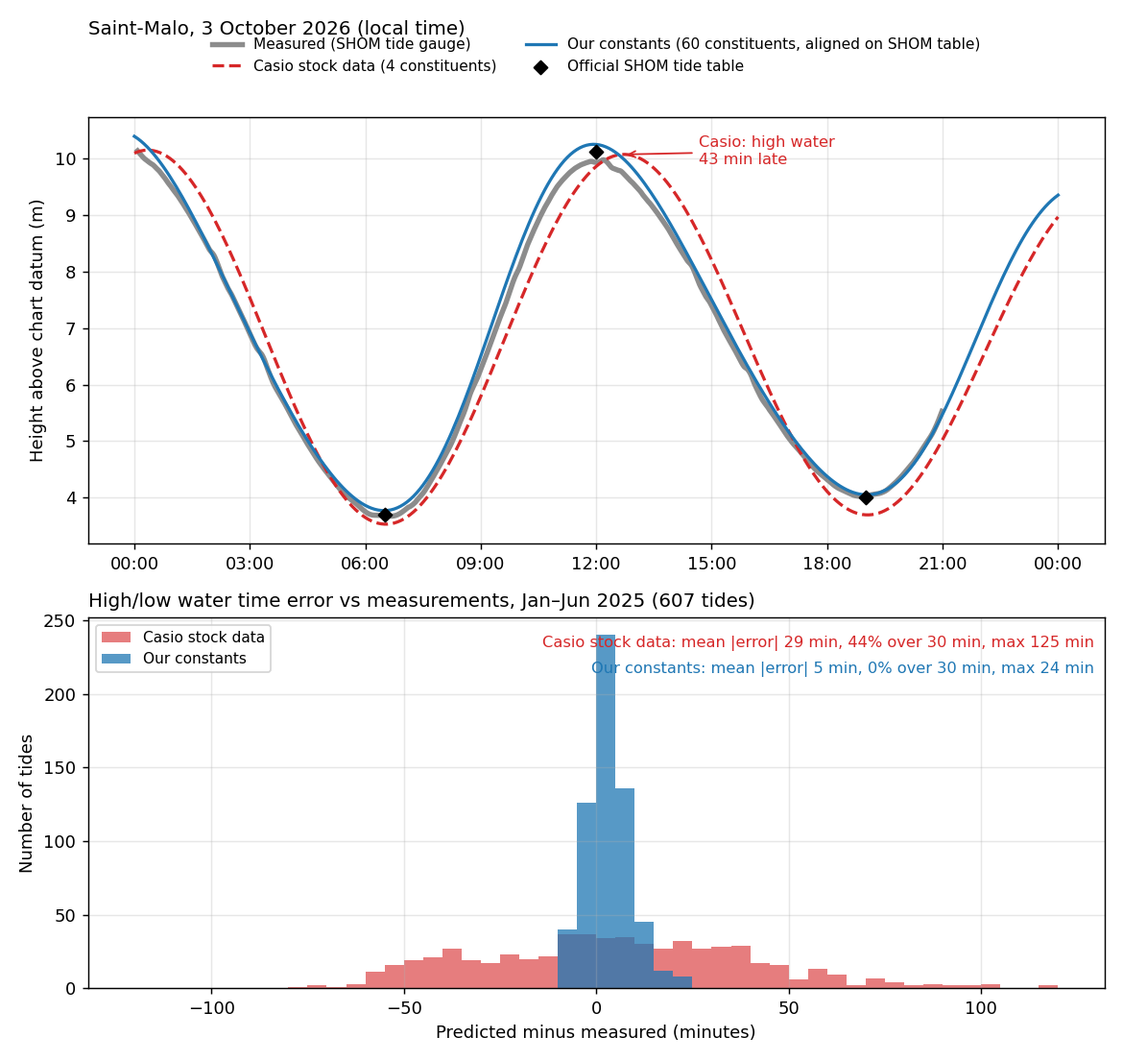
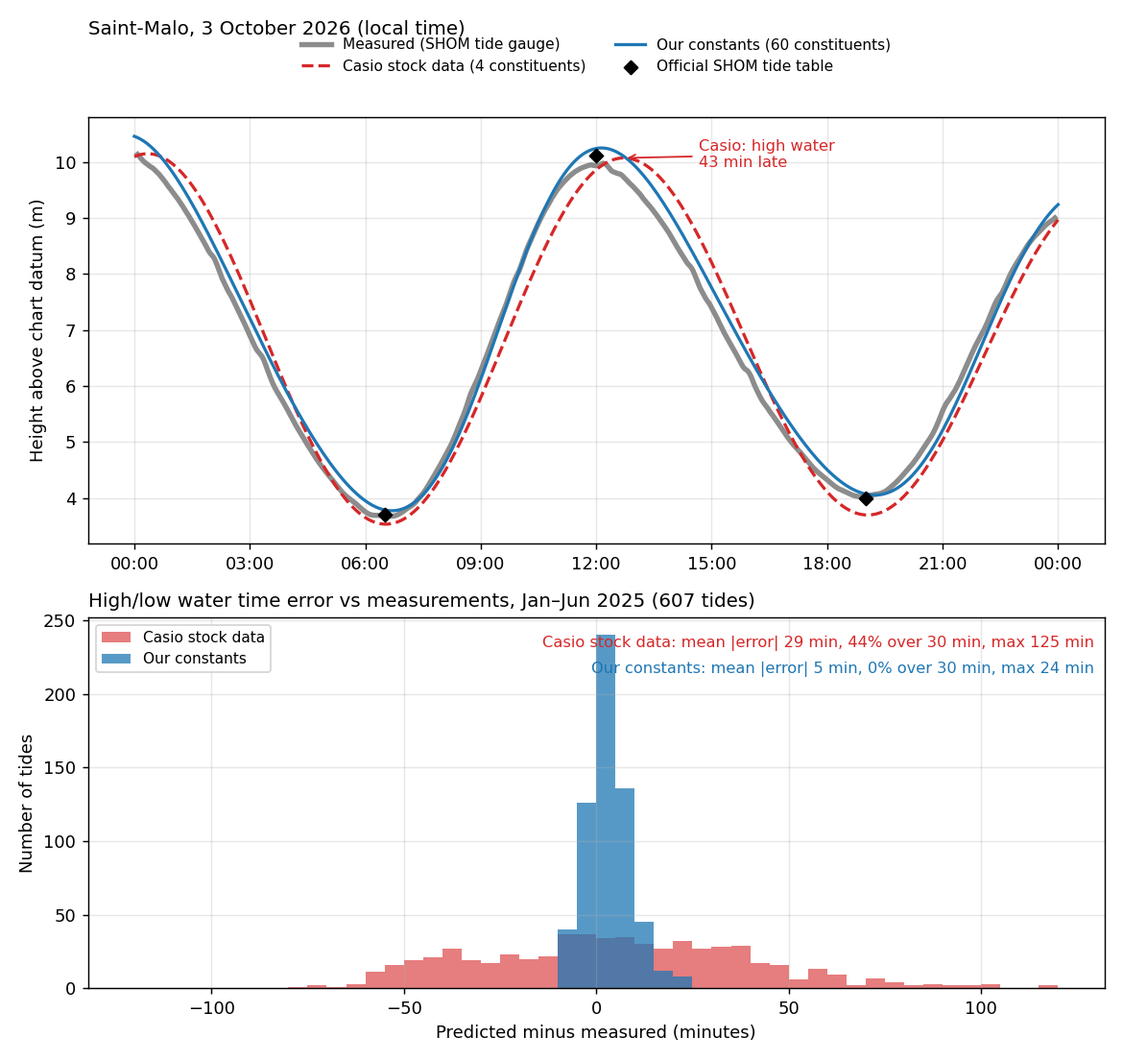
Calage sur l'annuaire officiel (PM/BM) avec validation, et correction des chiffres
- scripts/calage_extremes.py : recale les constantes sur les heures et hauteurs
  de PM/BM d'une table officielle (moindres carrés + rappel), avec validation
  sur une période mise de côté et bilan vives-eaux / mortes-eaux séparé
- README : section « Match your official tide table / Coller à son annuaire
  officiel », étape 7 de la démarche (erreur du décalage fixe calé sur 3 jours
  de mortes-eaux) et nouvelles hypothèses
- Chiffres corrigés : 3,4 min d'écart moyen face à l'annuaire sur des mois non
  utilisés (et non « à la minute »)
- Supprime aligne_shom.py et la version décalée de 12 min (sur-apprentissage)
- Images mises à jour

diff --git a/scripts/calage_extremes.py b/scripts/calage_extremes.py
@@ -1,0 +1,114 @@
+"""Recale des constantes harmoniques sur des heures et hauteurs de pleines/basses mers officielles
+(annuaire, table de marée : SHOM, NOAA, UKHO, CHS...), avec validation sur une période mise de côté.
+
+Principe : à l'heure exacte d'une PM ou BM officielle, la courbe prédite doit être « à plat » (dérivée nulle)
+et à la hauteur officielle. La courbe étant une somme d'ondes, ces deux conditions sont linéaires en
+a_j = A_j cos g_j et b_j = A_j sin g_j : on résout un problème de moindres carrés. Une pénalité (lambda)
+retient la solution près des constantes de départ pour ne pas « sur-apprendre » les points de calage.
+
+Entrées :
+  constantes.json : constantes de départ (sortie de analyse.py)
+  extremes.csv    : colonnes t (date et heure), type (HW ou LW), h (hauteur en m, même zéro que les constantes)
+Usage :
+  python scripts/calage_extremes.py constantes.json extremes.csv sortie.json LATITUDE FUSEAU FIN_CALAGE
+  ex. : ... data/saint_malo_60.json annuaire.csv data/saint_malo_cale.json 48.64 Europe/Paris 2026-08-01
+  FUSEAU : fuseau des heures du fichier (« UTC » si elles sont déjà en UTC)
+  FIN_CALAGE : les marées avant cette date servent au calage, celles après à la validation"""
+import sys, json, copy, warnings
+import numpy as np, pandas as pd, utide
+warnings.filterwarnings('ignore')
+
+SRC, EXT, OUT = sys.argv[1], sys.argv[2], sys.argv[3]
+LAT = float(sys.argv[4]); TZ = sys.argv[5]; SPLIT = pd.Timestamp(sys.argv[6])
+LAMBDAS = [0.3, 1, 3, 10, 30]          # forces de rappel testées ; la meilleure est choisie sur la validation
+
+# --- constantes de départ, dans une structure utide (corrections nodales comprises) ---
+d = json.load(open(SRC))
+tt = pd.date_range('2020-01-01', periods=24 * 400, freq='h')
+coef = utide.solve(tt, np.random.default_rng(0).normal(size=len(tt)), lat=LAT, constit=d['name'],
+                   method='ols', conf_int='none', trend=False, verbose=False)
+coef['A'] = np.array([dict(zip(d['name'], d['A']))[n] for n in coef.name])
+coef['g'] = np.array([dict(zip(d['name'], d['g']))[n] for n in coef.name])
+coef['mean'] = d['Z0']
+N = len(coef.name)
+
+def basis(times):
+    """Matrice (len(times), 2N+1) : h(t) = B @ x avec x = [a_1..a_N, b_1..b_N, Z0]."""
+    B = np.zeros((len(times), 2 * N + 1)); B[:, -1] = 1
+    for j in range(N):
+        for k, g in ((j, 0.0), (N + j, 90.0)):
+            c = copy.deepcopy(coef)
+            for key in ('name',): c[key] = np.array([coef.name[j]])
+            c['A'] = np.array([1.0]); c['g'] = np.array([g]); c['mean'] = 0.0
+            for key in ('frq', 'lind'): c['aux'][key] = np.array([coef['aux'][key][j]])
+            B[:, k] = utide.reconstruct(times, c, verbose=False).h
+    return B
+
+def x_of(c):
+    g = np.radians(c['g']); return np.concatenate([c['A'] * np.cos(g), c['A'] * np.sin(g), [c['mean']]])
+
+def coef_of(x):
+    c = copy.deepcopy(coef); a, b = x[:N], x[N:2 * N]
+    c['A'] = np.hypot(a, b); c['g'] = np.degrees(np.arctan2(b, a)) % 360; c['mean'] = x[-1]; return c
+
+# --- extrêmes officiels, convertis en UTC ---
+ex = pd.read_csv(EXT)
+t = pd.to_datetime(ex.t)
+t = t.dt.tz_localize(TZ, ambiguous='NaT', nonexistent='NaT') if TZ != 'UTC' else t.dt.tz_localize('UTC')
+ex['tu'] = t.dt.tz_convert('UTC').dt.tz_localize(None); ex = ex.dropna(subset=['tu']).reset_index(drop=True)
+train, valid = ex[ex.tu < SPLIT].reset_index(drop=True), ex[ex.tu >= SPLIT].reset_index(drop=True)
+print(f"{len(train)} PM/BM pour le calage, {len(valid)} pour la validation")
+
+# --- équations : dérivée nulle (convertie en minutes) et hauteur juste (en cm) à chaque extrême ---
+dt = pd.Timedelta(seconds=60)   # pas des différences finies : D1 en m/min, D2 en m/min²
+Bm, B0, Bp = basis(train.tu - dt), basis(train.tu), basis(train.tu + dt)
+x0 = x_of(coef)
+D1 = (Bp - Bm) / 2              # dérivée (m/min)
+D2 = Bp - 2 * B0 + Bm           # dérivée seconde (m/min²), pour convertir une pente en minutes
+curv = np.abs(D2 @ x0); curv[curv < 1e-5] = 1e-5
+rows_t = D1 / curv[:, None]                        # ≈ erreur d'heure en minutes
+rows_h = B0 * 100; rhs_h = train.h.values * 100    # erreur de hauteur en cm
+
+def fit(lam):
+    A = np.vstack([rows_t, rows_h, lam * 100 * np.eye(len(x0))])       # rappel exprimé en cm
+    b = np.concatenate([np.zeros(len(rows_t)), rhs_h, lam * 100 * x0])
+    return np.linalg.lstsq(A, b, rcond=None)[0]
+
+def evaluate(c, events):
+    """Heures/hauteurs prédites des PM/BM au voisinage de chaque extrême officiel (pas de 1 min)."""
+    res = []
+    for _, e in events.iterrows():
+        w = pd.date_range(e.tu - pd.Timedelta(minutes=120), e.tu + pd.Timedelta(minutes=120), freq='1min')
+        h = utide.reconstruct(w, c, verbose=False).h
+        i = int(np.argmax(h) if e.type == 'HW' else np.argmin(h))
+        if 0 < i < len(w) - 1:
+            res.append(((w[i] - e.tu).total_seconds() / 60, (h[i] - e.h) * 100, e.h))
+    return pd.DataFrame(res, columns=['dt_min', 'dh_cm', 'h'])
+
+def summary(r, label):
+    # vives-eaux : le tiers des PM les plus hautes et des BM les plus basses ; mortes-eaux : l'inverse
+    pm = r.h > r.h.median()
+    spring = (pm & (r.h > r[pm].h.quantile(.67))) | (~pm & (r.h < r[~pm].h.quantile(.33)))
+    neap = (pm & (r.h < r[pm].h.quantile(.33))) | (~pm & (r.h > r[~pm].h.quantile(.67)))
+    print(f"{label:24s} heure |moy| {r.dt_min.abs().mean():4.1f} min (max {r.dt_min.abs().max():3.0f}) | "
+          f"biais vives-eaux {r[spring].dt_min.mean():+5.1f} min, mortes-eaux {r[neap].dt_min.mean():+5.1f} min | "
+          f"hauteur |moy| {r.dh_cm.abs().mean():4.1f} cm")
+    return r.dt_min.abs().mean()
+
+print("\nValidation (marées non utilisées pour le calage) :")
+base = summary(evaluate(coef, valid), 'Constantes de départ')
+best = None
+for lam in LAMBDAS:
+    c = coef_of(fit(lam)); score = summary(evaluate(c, valid), f'Calé, lambda = {lam}')
+    if best is None or score < best[0]: best = (score, lam, c)
+score, lam, c = best
+print(f"\nRetenu : lambda = {lam}. Recalage final sur toutes les marées disponibles.")
+# recalage final avec toutes les données, même lambda
+train = ex; Bm, B0, Bp = basis(ex.tu - dt), basis(ex.tu), basis(ex.tu + dt)
+D1, D2 = (Bp - Bm) / 2, Bp - 2 * B0 + Bm
+curv = np.abs(D2 @ x0); curv[curv < 1e-5] = 1e-5
+rows_t, rows_h, rhs_h = D1 / curv[:, None], B0 * 100, ex.h.values * 100
+c = coef_of(fit(lam))
+json.dump({'Z0': float(c['mean']), 'name': list(c.name), 'A': [float(v) for v in c.A], 'g': [float(v) for v in c.g]},
+          open(OUT, 'w'), indent=1)
+print('Constantes recalées écrites dans', OUT)

diff --git a/scripts/figure_avant_apres.py b/scripts/figure_avant_apres.py
@@ -29,8 +29,8 @@ obs = pd.Series({pd.Timestamp(r['timestamp']): r['value'] for r in d}).sort_inde
 pc = utide.reconstruct(day, casio, verbose=False).h
 
 fig = plt.figure(figsize=(16, 9), dpi=110, facecolor='white')
-fig.text(.5, .94, "My G-Shock's tide times were up to 2 hours off. Now they're within a minute.",
-         ha='center', fontsize=25, weight='bold', color=INK)
+fig.text(.5, .94, "My G-Shock's tide times were up to 2 hours off. Now they're within a few minutes.",
+         ha='center', fontsize=22.5, weight='bold', color=INK)
 fig.text(.5, .895, 'Casio GBX-100 · Saint-Malo, France (12 m tidal range) · checked against the official SHOM tide gauge',
          ha='center', fontsize=13.5, color='#616161')
 
@@ -58,13 +58,13 @@ fig.text(.27, .12, '(607 tides, Jan–Jun 2025, vs tide-gauge measurements)', ha
 
 # --- APRÈS ---
 fig.text(.73, .82, 'AFTER', ha='center', fontsize=20, weight='bold', color=BLUE)
-fig.text(.73, .785, '60 components fitted on 7 years of tide-gauge data', ha='center', fontsize=13.5, color=INK)
+fig.text(.73, .785, '60 components, calibrated on the official tide table', ha='center', fontsize=13.5, color=INK)
 img = Image.open('docs/img/montre_maree.jpg')
 w, h = img.size; img = img.crop((int(w * .12), int(h * .30), int(w * .88), int(h * .80)))   # cadrage sur le cadran
 axi = fig.add_axes([.555, .25, .35, .52]); axi.imshow(img); axi.axis('off')
-fig.text(.73, .19, '≤ 1 min', ha='center', fontsize=40, weight='bold', color=BLUE)
-fig.text(.73, .15, 'vs the official tide table, on the watch (19:01 vs 19:00, 0:39 vs 00:40)', ha='center', fontsize=13, color=INK)
-fig.text(.73, .12, '(5 min average vs tide-gauge measurements, Jan–Jun 2025)', ha='center', fontsize=10.5, color='#757575')
+fig.text(.73, .19, '3.4 min', ha='center', fontsize=40, weight='bold', color=BLUE)
+fig.text(.73, .15, 'average error vs the official tide table · max 14 min', ha='center', fontsize=13, color=INK)
+fig.text(.73, .12, '(309 tides, Aug–Oct 2026, not used for calibration)', ha='center', fontsize=10.5, color='#757575')
 
 fig.add_artist(plt.Line2D([.5, .5], [.12, .82], color='#e0e0e0', lw=1.5))
 fig.patches.append(matplotlib.patches.Rectangle((0, 0), 1, .075, transform=fig.transFigure, color=INK, zorder=-1))

diff --git a/scripts/figure_ecart.py b/scripts/figure_ecart.py
@@ -26,7 +26,6 @@ casio = fit(train, list(CASIO))
 casio['A'] = np.array([CASIO[n][1] for n in casio.name])
 casio['g'] = np.array([(CASIO[n][0] - 360 * f) % 360 for n, f in zip(casio.name, casio.aux.frq)])
 casio['mean'] = 6.78
-shift = copy.deepcopy(ours); shift['g'] = (np.array(ours.g) - 360 * np.array(ours.aux.frq) * 12 / 60) % 360   # aligné annuaire
 pred = lambda c, tt: utide.reconstruct(tt, c, verbose=False).h
 
 def extrema(times, h):
@@ -47,7 +46,7 @@ loc = lambda x: x.tz_localize('UTC').tz_convert('Europe/Paris').tz_localize(None
 obs = shom(1, '2026-10-02T22:00:00Z', '2026-10-03T22:00:00Z').rolling(11, center=True).mean()
 ax1.plot(loc(obs.index), obs.values, color='0.55', lw=3, label='Measured (SHOM tide gauge)')
 ax1.plot(loc(day), pred(casio, day), color='#d62728', lw=1.8, ls='--', label='Casio stock data (4 constituents)')
-ax1.plot(loc(day), pred(shift, day), color='#1f77b4', lw=1.8, label='Our constants (60 constituents, aligned on SHOM table)')
+ax1.plot(loc(day), pred(ours, day), color='#1f77b4', lw=1.8, label='Our constants (60 constituents)')
 annuaire = [('06:30', 3.70), ('12:00', 10.11), ('19:00', 4.00)]
 ax1.scatter([pd.Timestamp(f'2026-10-03 {h}') for h, _ in annuaire], [v for _, v in annuaire], zorder=5,
             color='k', marker='D', s=30, label='Official SHOM tide table')

diff --git a/scripts/envoi_maree.py b/scripts/envoi_maree.py
@@ -9,7 +9,7 @@ ALL  = "26eb002d-b012-49a8-b1f8-394fb2032b0f"   # réponses / écritures de rég
 DRSP = "26eb0023-b012-49a8-b1f8-394fb2032b0f"   # contrôle des transferts « convoy »
 CONV = "26eb0024-b012-49a8-b1f8-394fb2032b0f"   # données des transferts
 
-BLOB_FILE = sys.argv[1] if len(sys.argv) > 1 else "data/saint_malo_3482_shom.bin"
+BLOB_FILE = sys.argv[1] if len(sys.argv) > 1 else "data/saint_malo_3482.bin"
 PORT_ID   = int(sys.argv[2]) if len(sys.argv) > 2 else 9999
 RAISONS = {1: "pile faible", 2: "température basse", 3: "mémoire non effacée", 4: "occupée", 7: "en préparation"}
 LOG = open("envoi_log.txt", "a")

diff --git a/README.fr.md b/README.fr.md
@@ -2,7 +2,7 @@
 
 *[English version](README.md)*
 
-Envoyer à une **Casio G-Shock GBX-100** (module 3482) des constantes de marée calculées à partir des **mesures officielles d'un marégraphe**, ici le SHOM pour Saint-Malo, envoyées comme un **port personnalisé** baptisé « ST-MALO SHOM », à la place des données approximatives de l'appli CASIO WATCHES. La montre affiche ensuite des marées exactes à la minute près, **hors connexion**, avec son écran d'origine (graphe, PM/BM, lune, soleil). Ni le firmware ni la montre ne sont modifiés. On peut créer son propre port, n'importe où et avec le nom de son choix ([comment](#créer-son-propre-port-nimporte-quel-lieu-nimporte-quel-nom)).
+Envoyer à une **Casio G-Shock GBX-100** (module 3482) des constantes de marée calculées à partir des **mesures officielles d'un marégraphe**, ici le SHOM pour Saint-Malo, envoyées comme un **port personnalisé** baptisé « ST-MALO SHOM », à la place des données approximatives de l'appli CASIO WATCHES. La montre affiche ensuite des marées justes à quelques minutes près, **hors connexion**, avec son écran d'origine (graphe, PM/BM, lune, soleil). Ni le firmware ni la montre ne sont modifiés. On peut créer son propre port, n'importe où et avec le nom de son choix ([comment](#créer-son-propre-port-nimporte-quel-lieu-nimporte-quel-nom)).
 
 <p align="center">
   <img src="docs/img/montre_maree.jpg" width="340" alt="GBX-100 en mode marée affichant ST-MALO SHOM : pleine mer 0:39 943 cm, basse mer 19:01 398 cm">
@@ -18,11 +18,11 @@ Envoyer à une **Casio G-Shock GBX-100** (module 3482) des constantes de marée 
 
 <p align="center"><em>Deux jours plus tard (5 octobre 2026), après la reconnexion de la montre au téléphone, les données sont toujours là. Basse mer à 9:09 (491 cm) et pleine mer à 15:08 (904 cm), contre 09:06 (4,90 m) et 15:10 (9,08 m) dans l'annuaire SHOM.</em></p>
 
-| Saint-Malo (face aux mesures du marégraphe, 2025) | Écart moyen sur l'heure des PM/BM | Écart max |
+| Saint-Malo, écart sur l'heure des PM/BM | Moyen | Max |
 |---|---|---|
-| Données Casio d'origine (4 ondes) | 29 min | 2 h 05 |
-| Nos constantes (60 ondes, mesures SHOM) | 5 min | 24 min |
-| Version alignée sur l'annuaire SHOM : montre face à l'annuaire, 3 octobre 2026 | ≤ 1 min | — |
+| Données Casio d'origine (4 ondes), face aux mesures du marégraphe (2025) | 29 min | 2 h 05 |
+| Nos constantes (60 ondes, calées sur les mesures), face aux mesures (2025) | 5 min | 24 min |
+| Nos constantes recalées sur l'annuaire officiel, face à l'annuaire (août-octobre 2026, 309 marées non utilisées pour le calage) | 3,4 min | 14 min |
 
 ## Pourquoi les données Casio d'origine ne sont pas exploitables (au moins à Saint-Malo)
 
@@ -65,6 +65,8 @@ Nous avons procédé par hypothèses successives, chacune vérifiée par une sou
 
 **6. Diagnostiquer les échecs.** Quand la montre s'est mise à refuser les transferts (« occupée »), une seconde capture de l'appli a montré la poignée de main complète qu'elle fait avant chaque transfert. Le script la reproduit désormais.
 
+**7. Coller à l'annuaire officiel, et tirer la leçon d'une erreur.** Notre premier essai décalait toutes les constantes de 12 minutes, calées sur **trois jours de mortes-eaux**. Ces jours-là, la montre tombait à la minute ; cinq jours plus tard, en vives-eaux, elle avait 13 à 21 minutes d'avance. L'écart entre l'annuaire et le modèle calé sur les mesures n'est pas constant : environ 13 min en mortes-eaux, presque 0 en vives-eaux. Un décalage fixe ne peut pas le corriger. Nous l'avons remplacé par un vrai calage sur 9,5 mois de PM/BM de l'annuaire, validé sur des mois jamais utilisés, avec vives-eaux et mortes-eaux présentées séparément (voir [Coller à son annuaire officiel](#coller-à-son-annuaire-officiel)).
+
 ### Hypothèses validées ou réfutées
 
 | Hypothèse | Résultat | Preuve |
@@ -78,7 +80,9 @@ Nous avons procédé par hypothèses successives, chacune vérifiée par une sou
 | Un client tiers peut écrire dans la montre sans appairage | ✅ Validée | Connexion et envoi réussis depuis un Mac |
 | La montre recharge les données à chaque envoi | ❌ Réfutée | Elle ne recharge que si le numéro de port change |
 | La montre accepte un transfert à tout moment | ❌ Réfutée | Elle refuse en mode marée, et sans la poignée de main de l'appli |
-| L'annuaire officiel colle exactement aux mesures | ❌ Réfutée (à Saint-Malo) | L'annuaire est ~12 min plus tôt que notre modèle ; la marée mesurée se situe entre les deux |
+| L'annuaire officiel colle exactement aux mesures | ❌ Réfutée (à Saint-Malo) | L'écart dépend de la marée : ~13 min en mortes-eaux, ~0 en vives-eaux |
+| Un décalage horaire fixe suffit pour coller à l'annuaire | ❌ Réfutée | Calé sur 3 jours de mortes-eaux, il mettait la montre 13 à 21 min en avance en vives-eaux |
+| Un calage sur une longue série de PM/BM officielles fonctionne | ✅ Validée | 3,4 min d'écart moyen sur des mois non utilisés, plus de biais en vives-eaux |
 
 Le détail du protocole est dans [docs/PROTOCOLE.md](docs/PROTOCOLE.md).
 
@@ -111,7 +115,7 @@ Nous avons utilisé le **SHOM** parce que la montre sert à Saint-Malo. La méth
 - les phases doivent être en **référence UTC/Greenwich** (et non en heure locale), et les amplitudes en **cm** ;
 - les noms d'ondes doivent être mis en correspondance avec l'ordre Casio (fait dans `constantes_casio.py`) ;
 - le zéro des hauteurs (zéro hydrographique local, ou niveau moyen) détermine les hauteurs affichées ;
-- pour coller à l'annuaire officiel local plutôt qu'aux mesures, un décalage peut être calé comme dans `aligne_shom.py`.
+- pour coller à l'annuaire officiel local plutôt qu'aux mesures, calez sur ses PM/BM (voir [Coller à son annuaire officiel](#coller-à-son-annuaire-officiel)), pas avec un décalage fixe.
 
 ## Utilisation
 
@@ -131,10 +135,10 @@ Toutes les commandes se lancent depuis la racine du dépôt.
 3. Lancez la commande, puis appuyez sur le bouton de connexion de la montre :
 
 ```bash
-python scripts/envoi_maree.py data/saint_malo_3482_shom.bin
+python scripts/envoi_maree.py data/saint_malo_3482.bin
 ```
 
-La montre doit afficher « ST-MALO SHOM » en mode marée. Utilisez `data/saint_malo_3482.bin` pour la version calée sur les mesures plutôt que sur l'annuaire. Le script met aussi la montre à l'heure de l'ordinateur.
+La montre doit afficher « ST-MALO SHOM » en mode marée. Ce bloc est calé sur les mesures du marégraphe. Pour coller plutôt à votre annuaire officiel, voir [Coller à son annuaire officiel](#coller-à-son-annuaire-officiel). Le script met aussi la montre à l'heure de l'ordinateur.
 
 Pour lire seulement les réglages de marée, sans rien écrire :
 
@@ -177,7 +181,6 @@ python scripts/telecharger_refmar.py 410 2019 2025 data/saint_malo_horaire.csv
 python scripts/analyse.py
 python scripts/constantes_casio.py
 python scripts/gen_blob.py
-python scripts/aligne_shom.py
 python scripts/previsions.py 2026-10-03
 ```
 
@@ -186,11 +189,32 @@ Les étapes :
 - `analyse.py` fait l'analyse harmonique et la compare au modèle Casio.
 - `constantes_casio.py` produit les constantes au format Casio. Il accepte le nom, la latitude et la longitude en arguments.
 - `gen_blob.py` produit le bloc de 1009 octets. Le nom affiché fait 18 caractères au maximum.
-- `aligne_shom.py` est optionnel : il applique le décalage vers l'annuaire et vérifie le résultat.
 - `previsions.py` affiche les PM/BM prévues pour comparer avec la montre.
+- `calage_extremes.py` recale les constantes sur des PM/BM officielles (voir [Coller à son annuaire officiel](#coller-à-son-annuaire-officiel)).
 - `figure_ecart.py` produit le graphique de comparaison Casio / mesures / nos constantes.
 
 Bonus : `parse_pklg.py` décode une capture Bluetooth PacketLogger (macOS/iOS) en liste d'opérations GATT.
+
+### Coller à son annuaire officiel
+
+Des constantes calées sur les **mesures** d'un marégraphe suivent l'eau réelle. Votre **annuaire officiel** (SHOM, NOAA, UKHO, CHS...) est calculé par l'organisme hydrographique avec son propre modèle, plus complet, et peut différer de quelques minutes, différemment en vives-eaux et en mortes-eaux. Si vous voulez que la montre affiche les mêmes heures que l'annuaire avec lequel vous naviguez, calez-la dessus :
+
+1. **Récupérez les PM et BM officielles** de votre port sur une période aussi longue que possible : au moins quelques mois, idéalement un an. Enregistrez-les dans un CSV avec les colonnes `t` (date et heure, telles qu'imprimées dans l'annuaire), `type` (`HW` ou `LW`) et `h` (hauteur en mètres, même zéro que vos constantes). Vérifiez les conditions d'utilisation de l'annuaire : beaucoup sont libres de consultation mais pas de republication, gardez ce fichier pour vous.
+2. **Lancez le calage**, en choisissant une date qui partage les données : les marées avant servent au calage, celles après seulement à vérifier le résultat.
+   ```bash
+   python scripts/calage_extremes.py data/mon_port.json mon_annuaire.csv data/mon_port_cale.json 48.64 Europe/Paris 2026-08-01
+   ```
+   (constantes de départ, annuaire, sortie, latitude, fuseau des heures de l'annuaire, date de partage)
+3. **Lisez le rapport de validation.** Le script compare les constantes de départ et plusieurs versions recalées sur les marées mises de côté, avec le biais en vives-eaux et en mortes-eaux présenté séparément, et retient la meilleure. Ensuite seulement, il recale sur toutes les données.
+4. Continuez comme d'habitude avec `constantes_casio.py`, `gen_blob.py` et `envoi_maree.py`, à partir du JSON recalé.
+
+Le principe : à l'heure exacte d'une PM ou BM officielle, la courbe prédite doit être à plat et à la hauteur officielle. La courbe étant une somme d'ondes, ces deux conditions sont linéaires en fonction des constantes : c'est un simple problème de moindres carrés. Une pénalité retient la solution près des constantes de départ, pour éviter le sur-apprentissage ; sa force est choisie sur les marées de validation.
+
+Deux règles apprises à nos dépens :
+- **Ne jamais valider sur les données qui ont servi au calage**, et ne jamais juger sur quelques jours : à Saint-Malo, l'écart entre l'annuaire et les mesures va d'environ 13 min en mortes-eaux à presque 0 en vives-eaux.
+- **Présenter vives-eaux et mortes-eaux séparément.** Une moyenne peut masquer une grosse erreur sur l'une des deux.
+
+À Saint-Malo, le calage sur 9,5 mois d'annuaire (janvier à mi-octobre 2026) a fait passer l'écart avec l'annuaire, sur des mois non utilisés, de 4,8 à 3,4 min en moyenne (max 22 → 14 min) et de 8,8 à 3,9 cm en hauteur, sans plus aucun biais en vives-eaux. Un petit biais d'environ 4 min subsiste en mortes-eaux : la courbe est très plate autour des PM et BM de mortes-eaux, si bien qu'une infime différence de forme déplace la minute exacte de l'extremum.
 
 ## Limites et précautions
 

diff --git a/README.md b/README.md
@@ -2,7 +2,7 @@
 
 *Accurate, offline tide predictions on the GBX-100 (module 3482) from official tide-gauge data, uploaded over Bluetooth LE. — [Version française](README.fr.md)*
 
-The GBX-100 has a nice tide graph, but for many ports the data that the **CASIO WATCHES** app sends is crude, and high/low water times can be off by more than an hour. This project computes **proper harmonic tide constants** from official measurements and uploads them to the watch in Casio's own format. The watch then shows tides accurate to about a minute, **fully offline**, on its stock screen (tide graph, high/low water, moon, sunrise/sunset). The firmware is not modified.
+The GBX-100 has a nice tide graph, but for many ports the data that the **CASIO WATCHES** app sends is crude, and high/low water times can be off by more than an hour. This project computes **proper harmonic tide constants** from official measurements and uploads them to the watch in Casio's own format. The watch then shows tides accurate to a few minutes, **fully offline**, on its stock screen (tide graph, high/low water, moon, sunrise/sunset). The firmware is not modified.
 
 Our test case is **Saint-Malo, France**, with data from the French hydrographic office **SHOM**, uploaded as a **custom port** named "ST-MALO SHOM". You can create your own port for any location, with any name ([how](#create-your-own-custom-port-any-location-any-name)). The method works with any tide gauge or published constituents (see [other data sources](#other-data-sources-noaa-ukho-and-more)).
 
@@ -20,11 +20,11 @@ Our test case is **Saint-Malo, France**, with data from the French hydrographic 
 
 <p align="center"><em>Two days later (5 Oct 2026), after the watch reconnected to the phone, the data is still there. Low water 9:09 (491 cm) and high water 15:08 (904 cm), vs 09:06 (4.90 m) and 15:10 (9.08 m) in the SHOM table.</em></p>
 
-| Saint-Malo (vs gauge measurements, 2025) | Mean error on high/low water time | Max error |
+| Saint-Malo, error on high/low water times | Mean | Max |
 |---|---|---|
-| Casio's stock data (4 constituents) | 29 min | 2 h 05 |
-| Our constants (60 constituents, SHOM gauge data) | 5 min | 24 min |
-| Version aligned on the official SHOM table: watch vs table, 3 Oct 2026 | ≤ 1 min | — |
+| Casio's stock data (4 constituents), vs tide-gauge measurements (2025) | 29 min | 2 h 05 |
+| Our constants (60 constituents, fitted on gauge data), vs measurements (2025) | 5 min | 24 min |
+| Our constants calibrated on the official tide table, vs the table (Aug–Oct 2026, 309 tides not used for calibration) | 3.4 min | 14 min |
 
 ## Why Casio's stock data is not usable (at least in Saint-Malo)
 
@@ -67,6 +67,8 @@ We worked through successive hypotheses, each checked against an independent sou
 
 **6. Debug failures.** When the watch started rejecting transfers ("busy"), a second capture showed the full handshake that the app performs before each transfer. The script now replays it.
 
+**7. Match the official tide table, and learn from a mistake.** Our first attempt shifted all constants by a fixed 12 minutes, calibrated on **three days of neap tides**. It matched those days to the minute, but five days later, at springs, the watch was 13 to 21 minutes early. The gap between the official table and the gauge-fitted model is not constant: about 13 min at neaps, close to 0 at springs. A fixed offset cannot fix that. We replaced it with a proper calibration on 9.5 months of official high/low waters, validated on months it never saw, with springs and neaps reported separately (see [Match your official tide table](#match-your-official-tide-table)).
+
 ### Hypotheses confirmed or refuted
 
 | Hypothesis | Result | Evidence |
@@ -80,7 +82,9 @@ We worked through successive hypotheses, each checked against an independent sou
 | A third-party client can write to the watch without pairing | ✅ Confirmed | Successful connection and upload from a Mac |
 | The watch reloads data on every upload | ❌ Refuted | It only reloads when the port ID changes |
 | The watch accepts a transfer at any time | ❌ Refuted | It refuses while showing tide mode, and without the app's handshake |
-| The official tide table exactly matches the measurements | ❌ Refuted (at Saint-Malo) | The table is ~12 min earlier than our model; the measured tide lies in between |
+| The official tide table exactly matches the measurements | ❌ Refuted (at Saint-Malo) | The gap depends on the tide: ~13 min at neaps, ~0 at springs |
+| A fixed time shift is enough to match the official table | ❌ Refuted | Calibrated on 3 neap days, it put the watch 13–21 min early at springs |
+| Calibrating on a long series of official high/low waters works | ✅ Confirmed | 3.4 min mean error on held-out months, no spring bias left |
 
 The full protocol is documented in [docs/PROTOCOL.md](docs/PROTOCOL.md) (French version: [docs/PROTOCOLE.md](docs/PROTOCOLE.md)).
 
@@ -113,7 +117,7 @@ Whatever the source, check that:
 - phases are **Greenwich/UTC-referenced** (not local time) and amplitudes are in **cm**;
 - constituent names are mapped to Casio's order (done in `constantes_casio.py`);
 - the height datum (local chart datum or mean sea level) suits you, since it sets the displayed heights;
-- if you want to match your official local tide table rather than the measurements, you calibrate a time offset as in `aligne_shom.py`.
+- if you want to match your official local tide table rather than the measurements, calibrate on its high/low waters (see [Match your official tide table](#match-your-official-tide-table)), not with a fixed time offset.
 
 ## Usage
 
@@ -133,10 +137,10 @@ Run all commands from the repository root.
 3. Run the command, then press the watch's connect button:
 
 ```bash
-python scripts/envoi_maree.py data/saint_malo_3482_shom.bin
+python scripts/envoi_maree.py data/saint_malo_3482.bin
 ```
 
-The watch should then show "ST-MALO SHOM" in tide mode. Use `data/saint_malo_3482.bin` for the version fitted on measurements rather than on the official table. The script also sets the watch time from the computer.
+The watch should then show "ST-MALO SHOM" in tide mode. This block is fitted on tide-gauge measurements. To match your official tide table instead, see [Match your official tide table](#match-your-official-tide-table). The script also sets the watch time from the computer.
 
 To read the tide settings only, without writing anything:
 
@@ -179,7 +183,6 @@ python scripts/telecharger_refmar.py 410 2019 2025 data/saint_malo_horaire.csv
 python scripts/analyse.py
 python scripts/constantes_casio.py
 python scripts/gen_blob.py
-python scripts/aligne_shom.py
 python scripts/previsions.py 2026-10-03
 ```
 
@@ -188,11 +191,32 @@ What each step does:
 - `analyse.py` runs the harmonic analysis and compares it with Casio's model.
 - `constantes_casio.py` writes the constants in Casio's format. Name, latitude and longitude can be passed as arguments.
 - `gen_blob.py` builds the 1,009-byte block. The displayed name is at most 18 characters.
-- `aligne_shom.py` is optional: it applies the time offset towards the official table and checks the result.
 - `previsions.py` prints predicted high/low waters, to compare with the watch.
+- `calage_extremes.py` calibrates the constants on official high/low waters (see [Match your official tide table](#match-your-official-tide-table)).
 - `figure_ecart.py` draws the Casio vs measurements vs our constants comparison chart.
 
 Bonus: `parse_pklg.py` decodes a PacketLogger (macOS/iOS) Bluetooth capture into a list of GATT operations.
+
+### Match your official tide table
+
+Constants fitted on tide-gauge **measurements** follow the real water. Your **official tide table** (SHOM, NOAA, UKHO, CHS...) is computed by the hydrographic office with its own, larger model, and can differ by a few minutes, differently at springs and neaps. If you want the watch to agree with the table you sail with, calibrate on it:
+
+1. **Collect the official high and low waters** for your port over as long a period as possible, at least a few months, ideally a year. Save them as a CSV with columns `t` (date and time, as printed in the table), `type` (`HW` or `LW`) and `h` (height in metres, same datum as your constants). Check the table's terms of use: many are free to consult but not to republish, so keep that file to yourself.
+2. **Run the calibration**, choosing a date that splits the data: tides before it are used to calibrate, tides after it only to check the result.
+   ```bash
+   python scripts/calage_extremes.py data/my_port.json my_table.csv data/my_port_calibrated.json 48.64 Europe/Paris 2026-08-01
+   ```
+   (constants to start from, your table, output, latitude, time zone of the table's times, split date)
+3. **Read the validation report.** The script compares the starting constants and several calibrated versions on the held-out tides, with the bias at springs and at neaps shown separately, and keeps the best one. Only then does it refit on all the data.
+4. Continue as usual with `constantes_casio.py`, `gen_blob.py` and `envoi_maree.py`, using the calibrated JSON.
+
+How it works: at the exact time of an official high or low water, the predicted curve must be flat and at the official height. Since the curve is a sum of tidal waves, both conditions are linear in the constants, so this is a plain least-squares problem. A penalty keeps the solution close to the starting constants, which prevents over-fitting; its strength is chosen on the validation tides.
+
+Two rules we learned the hard way:
+- **Never validate on the data used for calibration**, and never judge on a few days: at Saint-Malo, the gap between the table and the measurements varies from ~13 min at neaps to ~0 at springs.
+- **Report springs and neaps separately.** An average can hide a large error on one of them.
+
+At Saint-Malo, calibrating on 9.5 months of official tables (January to mid-October 2026) brought the error against the table, on held-out months, from 4.8 to 3.4 min on average (max 22 → 14 min) and from 8.8 to 3.9 cm in height, with no bias left at springs. A small bias of about 4 min remains at neaps: the curve is very flat around neap high and low waters, so a tiny difference in shape moves the exact minute of the extremum.
 
 ## Limitations and caveats
 
